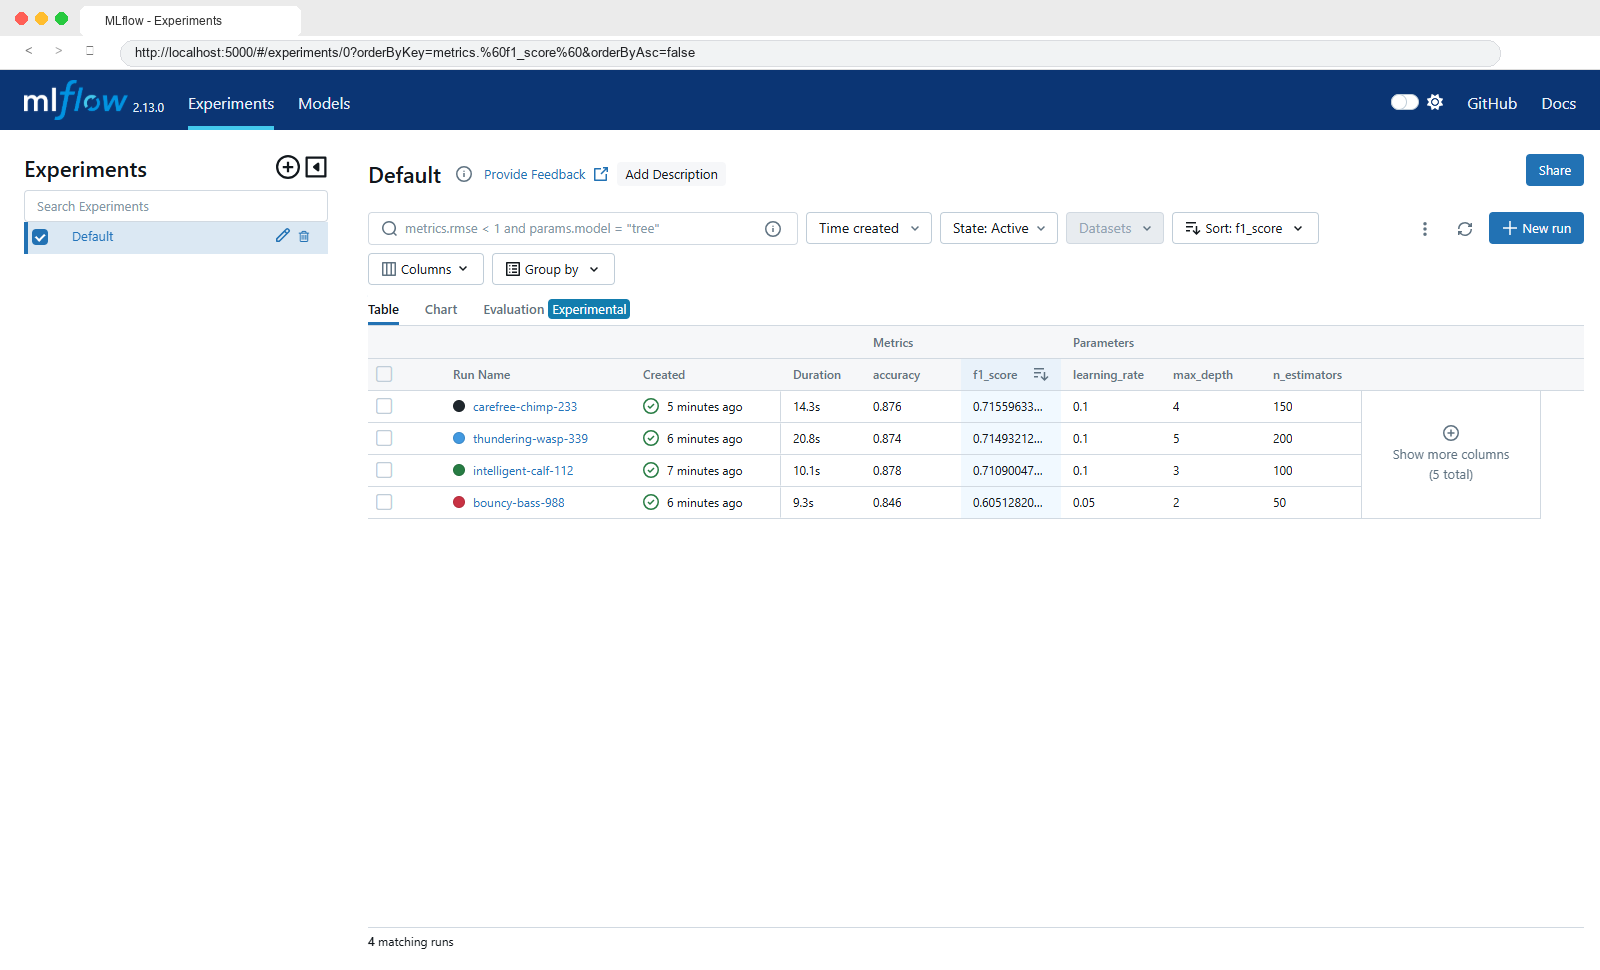
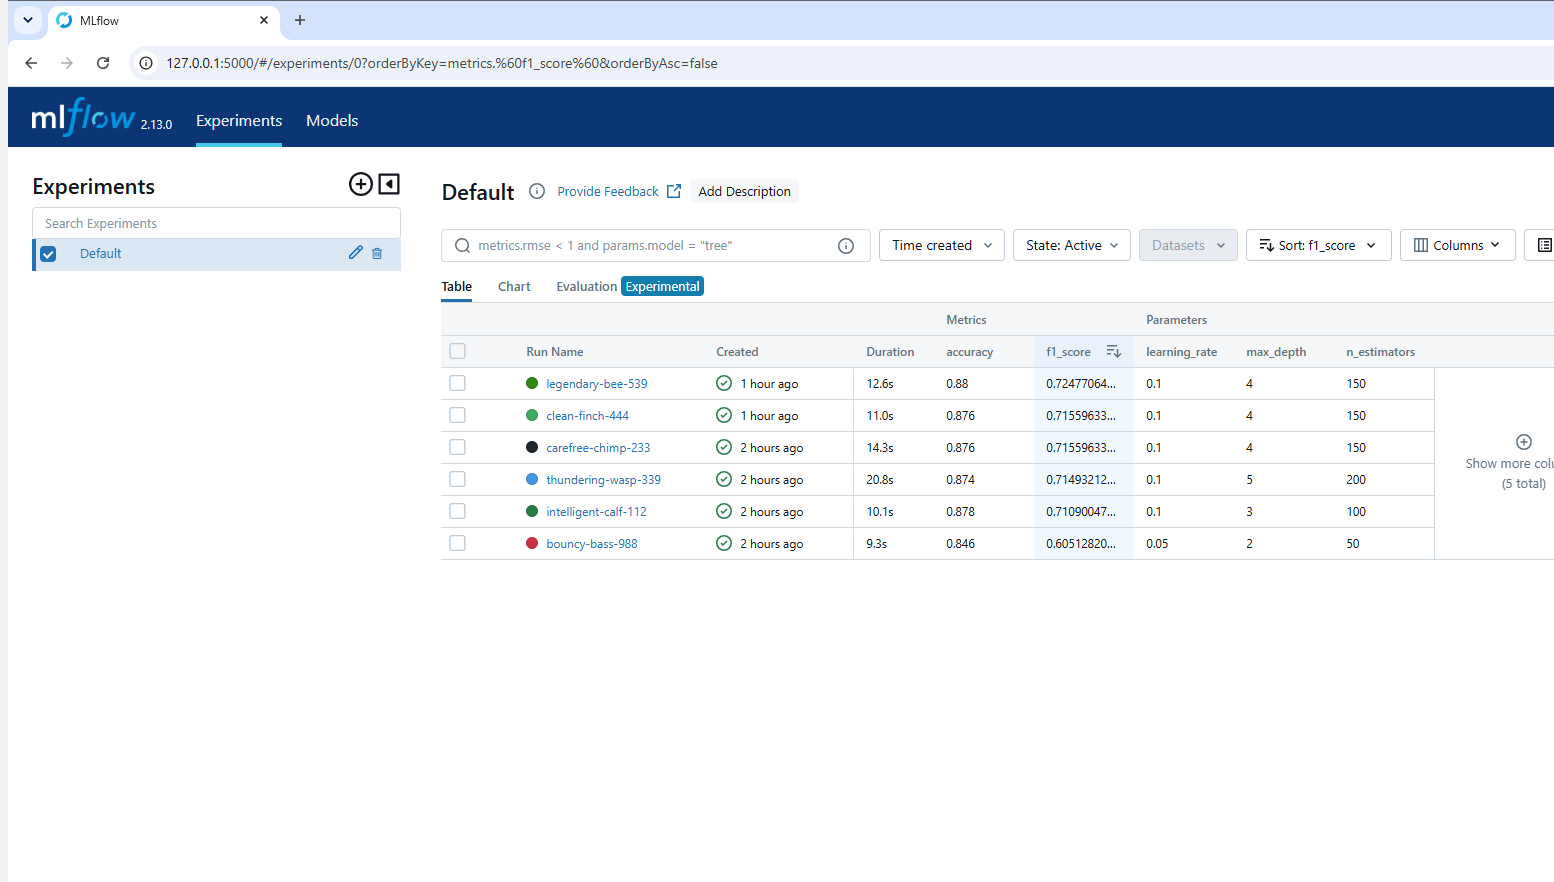
docs: add verified AWS runs, API evidence and submission report

diff --git a/nop-bai/README.md b/nop-bai/README.md
@@ -1,73 +1,36 @@
-# Nộp Bài - Day 21: CI/CD cho AI Systems
+# Bằng chứng nộp bài Day 21
 
-Thư mục này là nơi chứa **bằng chứng nộp bài**. Bạn không cần tạo thêm thư mục nào khác:
-điền vào các file có sẵn và bỏ ảnh chụp màn hình vào đúng tên file đã quy định.
+**Nguyễn Ngọc Bảo · 2A202602951 · K4**
 
-```
-nop-bai/
-├── README.md                  <- file này (checklist)
-├── bao-cao.md                 <- template báo cáo, không quá 1 trang A4
-└── anh-chup-man-hinh/
-    ├── README.md              <- mô tả yêu cầu của từng ảnh
-    ├── 01-mlflow-ui.png
-    ├── 02-actions-buoc-2.png
-    ├── 03-actions-buoc-3.png
-    ├── 04-curl-api.png
-    └── 05-cloud-storage.png
-```
+- [x] [Repository công khai](https://github.com/KeepGoing132/K4-L3L4-Track2-Day21-Nguyen_Ngoc_Bao-2A202602951-CI-CD-for-AI-Systems) chứa code, workflow và DVC metadata.
+- [x] MLflow có ít nhất ba bộ siêu tham số và đủ F1/accuracy.
+- [x] [Bước 2](https://github.com/KeepGoing132/K4-L3L4-Track2-Day21-Nguyen_Ngoc_Bao-2A202602951-CI-CD-for-AI-Systems/actions/runs/37607586482): cả bốn job thành công trên 22.361 mẫu.
+- [x] [Bước 3](https://github.com/KeepGoing132/K4-L3L4-Track2-Day21-Nguyen_Ngoc_Bao-2A202602951-CI-CD-for-AI-Systems/actions/runs/37607657033): commit chỉ cập nhật dữ liệu tự kích hoạt cả bốn job, train 44.722 mẫu.
+- [x] [Thử Quality Gate](https://github.com/KeepGoing132/K4-L3L4-Track2-Day21-Nguyen_Ngoc_Bao-2A202602951-CI-CD-for-AI-Systems/actions/runs/37606981690): chặn model F1 0.6051, giữ nguyên model S3.
+- [x] DVC data và model đã có trên Amazon S3; API EC2 được kiểm tra từ IP công khai.
+- [x] [Báo cáo](bao-cao.md) hoàn chỉnh; nội dung vừa một trang A4 với Arial 11pt, lề 16mm.
+- [x] Đủ chuỗi ảnh 01–05 và ảnh chứng minh Quality Gate; mỗi ảnh dưới 1 MB.
+- [x] Code, báo cáo và toàn bộ ảnh đã push lên GitHub.
+- [x] Kiểm tra truy cập repository và bằng chứng không cần đăng nhập GitHub.
+- [ ] Dán URL repository vào bài Day 21 trên https://vlearn.dev (chưa có phiên đăng nhập VLearn để thực hiện).
 
----
+## Các ảnh đã nộp
 
-## Checklist Trước Khi Nộp
+| File | Bằng chứng |
+|---|---|
+| [01-mlflow-ui.png](anh-chup-man-hinh/01-mlflow-ui.png) | Thí nghiệm MLflow, tham số, F1 và accuracy |
+| [02-actions-buoc-2.png](anh-chup-man-hinh/02-actions-buoc-2.png) | Bốn job xanh ở bước 2 |
+| [03-actions-buoc-3.png](anh-chup-man-hinh/03-actions-buoc-3.png) | Commit dữ liệu kích hoạt workflow, bốn job xanh |
+| [04-curl-api.png](anh-chup-man-hinh/04-curl-api.png) | Terminal thật gọi health và score trên EC2 |
+| [05-cloud-storage.png](anh-chup-man-hinh/05-cloud-storage.png) | Bucket S3 có `dvc/` và `artifacts/` |
+| [05a-storage-dvc.png](anh-chup-man-hinh/05a-storage-dvc.png) | Các phiên bản dữ liệu trong DVC cache |
+| [05b-storage-model.png](anh-chup-man-hinh/05b-storage-model.png) | Model và report tại `artifacts/current/` |
+| [07-quality-gate-chan.png](anh-chup-man-hinh/07-quality-gate-chan.png) | Quality Gate fail, Release skipped đúng chủ đích |
 
-Đánh dấu `[x]` khi hoàn thành từng mục:
+Ảnh trình duyệt có thanh địa chỉ. Các ảnh là ảnh chụp trang/terminal đang chạy thực tế.
+Kết quả cloud đầy đủ: [ket-qua-cloud.json](ket-qua-cloud.json).
+Kết quả local trước triển khai: [ket-qua-local.json](ket-qua-local.json).
+Hướng dẫn AWS và cách dừng tài nguyên sau khi chấm: [tasks/aws.md](../tasks/aws.md).
 
-- [ ] Repo GitHub ở chế độ **public** và chứa toàn bộ code, cấu hình đã hoàn thiện.
-- [ ] Đủ 5 ảnh trong `anh-chup-man-hinh/`, đúng tên file, đúng thứ tự (xem
-      [yêu cầu chi tiết](anh-chup-man-hinh/README.md)).
-- [ ] `bao-cao.md` đã điền đủ 3 mục bắt buộc và không vượt quá 1 trang A4.
-- [ ] Đã `git push` toàn bộ thư mục `nop-bai/` lên GitHub.
-- [ ] Dán URL repo GitHub vào bài nộp trên **https://vlearn.dev**.
-- [ ] Mở lại URL vừa nộp ở chế độ ẩn danh để chắc chắn repo public và người chấm xem được.
-
----
-
-## Ảnh Chụp Màn Hình Tương Ứng Với Rubric
-
-| Ảnh | Chứng minh hạng mục nào trong rubric | Điểm |
-|---|---|---|
-| `01-mlflow-ui.png` | Bước 1 - MLflow tracking, Bước 1 - Độ đo | 20 |
-| `02-actions-buoc-2.png` | Bước 2 - CI/CD (bốn jobs màu xanh) | 16 |
-| `03-actions-buoc-3.png` | Bước 3 - Tự động hóa | 12 |
-| `04-curl-api.png` | Bước 2 - Serving | 12 |
-| `05-cloud-storage.png` | Bước 2 - DVC | 12 |
-
-Phần `bao-cao.md` chứng minh hạng mục **Bước 1 - Phân tích** (4 điểm) và là nơi bạn giải
-trình khi một ảnh nào đó chưa thể hiện đủ (ví dụ quality gate đã chặn đúng một lần).
-
----
-
-## Quy Ước Chung
-
-- **Định dạng ảnh**: `.png` (ưu tiên) hoặc `.jpg`. Nếu dùng `.jpg`, giữ nguyên phần tên,
-  chỉ đổi đuôi — ví dụ `01-mlflow-ui.jpg`.
-- **Không đổi số thứ tự đầu tên file.** Thứ tự này là thứ tự chấm bài.
-- **Không che thông tin cần chấm**: tên job, trạng thái màu xanh, giá trị `f1_score`,
-  đường dẫn bucket. Được phép che email cá nhân và khóa bí mật.
-- **Cần chụp cả URL trên thanh địa chỉ** với các ảnh chụp từ trình duyệt (MLflow UI,
-  GitHub Actions, Cloud Storage Console) để xác nhận đúng repo/project của bạn.
-- **Tuyệt đối không commit khóa bí mật**: `sa-key.json`, nội dung GitHub Secrets, access
-  key của cloud. Nếu ảnh lỡ chứa các thông tin này, hãy che lại trước khi commit.
-
----
-
-## Ghi Chú Về Kích Thước Repo
-
-Ảnh chụp màn hình được commit trực tiếp vào Git. Giữ mỗi ảnh dưới **1 MB** (chụp vùng cần
-thiết thay vì toàn màn hình 4K, hoặc nén lại trước khi commit) để repo không phình to.
-
-Nếu bạn dùng macOS, có thể nén nhanh bằng lệnh sẵn có:
-
-```bash
-sips -Z 1600 nop-bai/anh-chup-man-hinh/01-mlflow-ui.png
-```
+API đang hoạt động: http://54.253.158.211:8080/healthz.
+EC2, EBS và IPv4 công khai được giữ để chấm bài và có thể phát sinh phí.

diff --git a/nop-bai/bao-cao.md b/nop-bai/bao-cao.md
@@ -1,53 +1,53 @@
-# Báo Cáo Lab Day 21 - CI/CD cho AI Systems
+# Báo cáo Day 21 — CI/CD cho AI Systems
 
-| | |
-|---|---|
-| Họ và tên | Nguyễn Ngọc Bảo |
-| MSSV | 2A202602951 |
-| Lớp / Khóa | K4 |
-| Repo GitHub | https://github.com/KeepGoing132/K4-L3L4-Track2-Day21-Nguyen_Ngoc_Bao-2A202602951-CI-CD-for-AI-Systems |
-| Ngày kiểm tra local | 07/10/2026 |
+**Nguyễn Ngọc Bảo · MSSV 2A202602951 · K4 · 07/10/2026**  
+[Repository công khai](https://github.com/KeepGoing132/K4-L3L4-Track2-Day21-Nguyen_Ngoc_Bao-2A202602951-CI-CD-for-AI-Systems) · AWS S3 + EC2, `ap-southeast-2`.
 
----
+## 1. Chọn siêu tham số
 
-## 1. Bộ Siêu Tham Số Đã Chọn và Lý Do
-
-| Lần chạy | n_estimators | learning_rate | max_depth | f1_score | accuracy |
-|---|---|---|---|---|---|
-| 1 | 100 | 0.1 | 3 | 0.7109 | 0.8780 |
+| Thí nghiệm MLflow | Số cây | Learning rate | Depth | F1 | Accuracy |
+|---|---:|---:|---:|---:|---:|
+| 1 | 100 | 0.10 | 3 | 0.7109 | 0.8780 |
 | 2 | 50 | 0.05 | 2 | 0.6051 | 0.8460 |
-| 3 | 150 | 0.1 | 4 | 0.7156 | 0.8760 |
+| 3 | 150 | 0.10 | 4 | 0.7156 | 0.8760 |
+| 4 | 200 | 0.10 | 5 | 0.7149 | 0.8740 |
 
-**Bộ siêu tham số đã chọn:** `n_estimators=150`, `learning_rate=0.1`, `max_depth=4`.
+Chọn **150 cây, learning rate 0.1, max depth 4** vì F1 cao nhất trong bốn
+thí nghiệm bước 1 trên batch1, vượt ngưỡng 0.65. Accuracy của thí nghiệm 1 cao hơn nhưng F1
+thấp hơn. Chưa đủ bằng chứng để kết luận mô hình không overfitting.
 
-**Lý do:** Trong ba thí nghiệm MLflow cục bộ trên, bộ tham số này có F1 cao nhất (0.7156), vượt ngưỡng 0.65. Lần 1 có accuracy cao hơn nhưng F1 thấp hơn; chưa đủ bằng chứng để kết luận mô hình không overfitting.
+## 2. Vì sao dùng F1
 
----
+Adult có khoảng 24.8% mẫu thu nhập >50K. Luôn đoán thu nhập thấp vẫn đạt
+accuracy khoảng 75.2%, trong khi F1 lớp dương bằng 0. Vì vậy Quality Gate dùng
+F1 của lớp >50K, kết hợp precision và recall của lớp cần đánh giá. Macro F1
+trung bình đều hai lớp; weighted F1 lấy trọng số theo số mẫu, nên không tương
+đương F1 lớp dương dùng trong lab.
 
-## 2. Vì Sao Ngưỡng Chất Lượng Đặt Trên F1 Chứ Không Phải Accuracy
+## 3. Khó khăn và cách xử lý
 
-Adult có khoảng 24.8% mẫu thu nhập >50K. Luôn đoán lớp thu nhập thấp vẫn đạt accuracy khoảng 75.2% nhưng F1 lớp dương bằng 0. F1 lớp dương kết hợp precision và recall của đúng lớp cần đánh giá; macro F1 trung bình đều hai lớp, còn weighted F1 dùng trọng số theo số mẫu, nên hai chỉ số này không tương đương ngưỡng F1 lớp dương của lab.
+Test từng ghi đè model thật: chuyển sang thư mục tạm và MLflow store riêng.
+Chỉ upload model tại Release sau Quality Gate; API trả 503 nếu thiếu model và
+Release kiểm tra cả health/dự đoán. Ghép batch có kiểm tra phần cuối file để
+chạy lại không nhân đôi dữ liệu. Tài khoản giới hạn region nên dùng Sydney;
+xác minh fingerprint ECDSA từ console output EC2 để sửa lỗi SSH. Bật lại
+Actions và thêm glob `data/*.dvc` để kiểm chứng trigger từ commit dữ liệu.
+**19 unit tests đã qua** trên GitHub Actions.
 
----
+## 4. Kết quả CI/CD thực tế
 
-## 3. Vấn Đề Đã Sửa và Kiểm Tra
+| GitHub Actions | Mẫu train | Mẫu holdout | F1 | Accuracy |
+|---|---:|---:|---:|---:|
+| [Bước 2](https://github.com/KeepGoing132/K4-L3L4-Track2-Day21-Nguyen_Ngoc_Bao-2A202602951-CI-CD-for-AI-Systems/actions/runs/37607586482) | 22,361 | 500 | 0.7156 | 0.8760 |
+| [Bước 3](https://github.com/KeepGoing132/K4-L3L4-Track2-Day21-Nguyen_Ngoc_Bao-2A202602951-CI-CD-for-AI-Systems/actions/runs/37607657033) | 44,722 | 500 | 0.7248 | 0.8800 |
 
-| Vấn đề | Cách giải quyết | Kiểm tra |
-|---|---|---|
-| Test ghi đè model thật | Thư mục tạm và MLflow store riêng | Test huấn luyện và đường dẫn tùy chọn |
-| Model không đạt vẫn ghi đè trên cloud | Chỉ Release upload sau Quality Gate | Kiểm tra workflow và các giá trị F1 biên/NaN |
-| API báo khỏe dù thiếu model | HTTP 503 và kiểm tra thêm `/score` khi release | Test API; gọi API local với model thật |
-| Ghép lại batch làm trùng dữ liệu | So sánh batch ở cuối file trước khi ghép | Test chạy hai lần, giữ nguyên mẫu trùng hợp lệ |
+Cả hai lần chạy có bốn job xanh. Bước 3 tự kích hoạt bởi commit **chỉ đổi
+`data/train_batch1.csv.dvc`**, sau khi dữ liệu mới đã được DVC đẩy lên S3.
+Trên cùng holdout, F1 tăng 0.0092 và accuracy tăng 0.0040 khi thêm dữ liệu cùng
+nguồn; chưa chứng minh khả năng tổng quát hóa trên nguồn khác.
 
----
-
-## 4. So Sánh Dữ Liệu Bước 2 và Bước 3 — Chạy Local
-
-| | f1_score | accuracy |
-|---|---|---|
-| 22.361 mẫu, chỉ `train_batch1` | 0.7156 | 0.8760 |
-| 44.722 mẫu, ghép `train_batch2` | 0.7248 | 0.8800 |
-
-**Nhận xét:** Kiểm tra local trên cùng holdout 500 mẫu cho thấy F1 tăng khoảng 0.0092 và accuracy tăng 0.0040 khi thêm dữ liệu cùng nguồn. Kết quả chi tiết lưu tại [ket-qua-local.json](ket-qua-local.json); chúng xác nhận huấn luyện local, chưa chứng minh CI/CD tự động hoặc triển khai VM.
-
-**Còn thiếu trước khi nộp:** remote GCS `labstore`, `dvc push`, VM/Secrets và bằng chứng ảnh 02–05 từ lần chạy cloud thực tế.
+[Thử model yếu](https://github.com/KeepGoing132/K4-L3L4-Track2-Day21-Nguyen_Ngoc_Bao-2A202602951-CI-CD-for-AI-Systems/actions/runs/37606981690): F1 0.6051 làm Quality Gate
+fail, Release skipped; VersionId và ETag model S3 trước/sau giống nhau.
+API `http://54.253.158.211:8080` trả health OK và dự đoán hợp lệ.
+Số liệu, trạng thái job và kiểm tra API lưu tại [ket-qua-cloud.json](ket-qua-cloud.json);
+ảnh thật trong [anh-chup-man-hinh/](anh-chup-man-hinh/).

diff --git a/README.md b/README.md
@@ -256,8 +256,14 @@ $env:MLFLOW_TRACKING_URI = "sqlite:///mlflow.db"
 .\.venv\Scripts\python.exe -m uvicorn src.serve:app --host 127.0.0.1 --port 8080
 ```
 
-Kết quả chạy trên máy được lưu trong `nop-bai/ket-qua-local.json` và không thay thế
-bằng chứng GitHub Actions hay triển khai VM.
+**Kết quả đã kiểm chứng trên AWS ngày 07/10/2026:** bước 2 và bước 3 đều có bốn
+job thành công, bước 3 tự kích hoạt từ commit dữ liệu. F1 tăng từ 0.7156 lên 0.7248.
+Quality Gate chặn model F1 0.6051 và giữ nguyên model đang chạy. API EC2:
+http://54.253.158.211:8080/healthz.
+
+Xem [bằng chứng nộp bài](nop-bai/README.md), [báo cáo](nop-bai/bao-cao.md),
+[kết quả cloud](nop-bai/ket-qua-cloud.json) và [ảnh thực tế](nop-bai/anh-chup-man-hinh/).
+Kết quả local trước triển khai được giữ tại `nop-bai/ket-qua-local.json`.
 
 | Bước | Nội dung | File hướng dẫn |
 |---|---|---|
